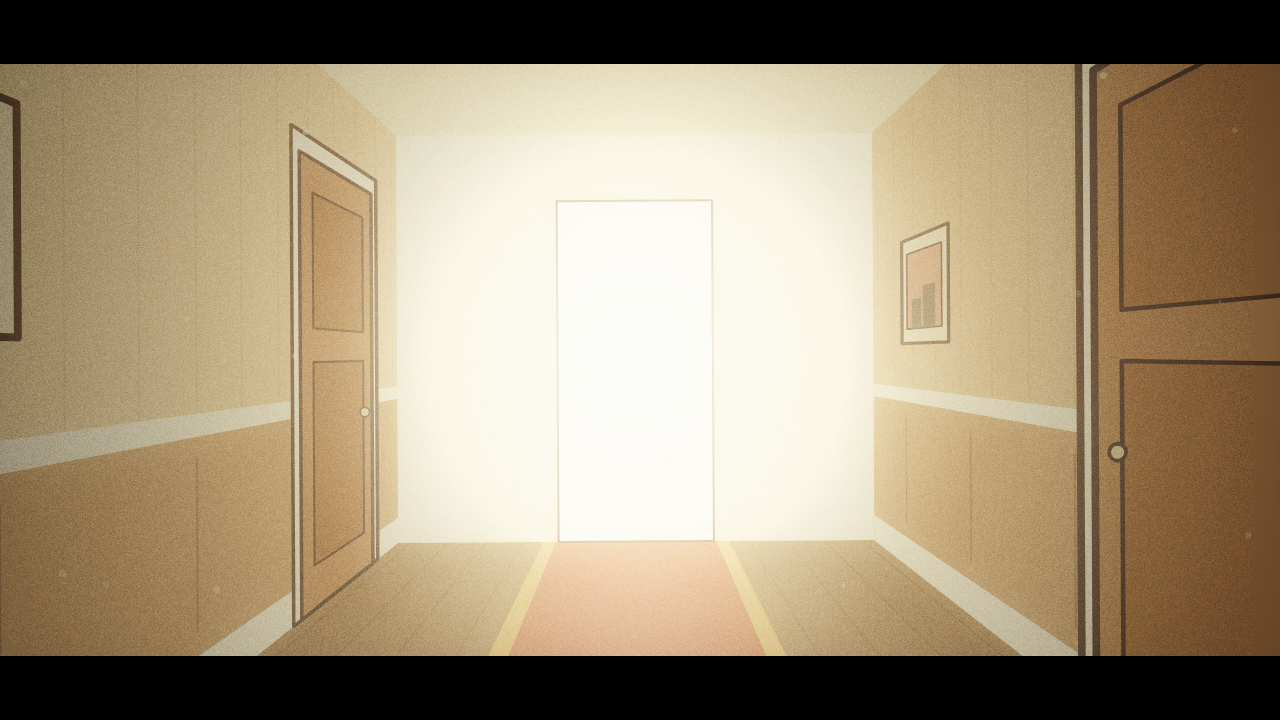
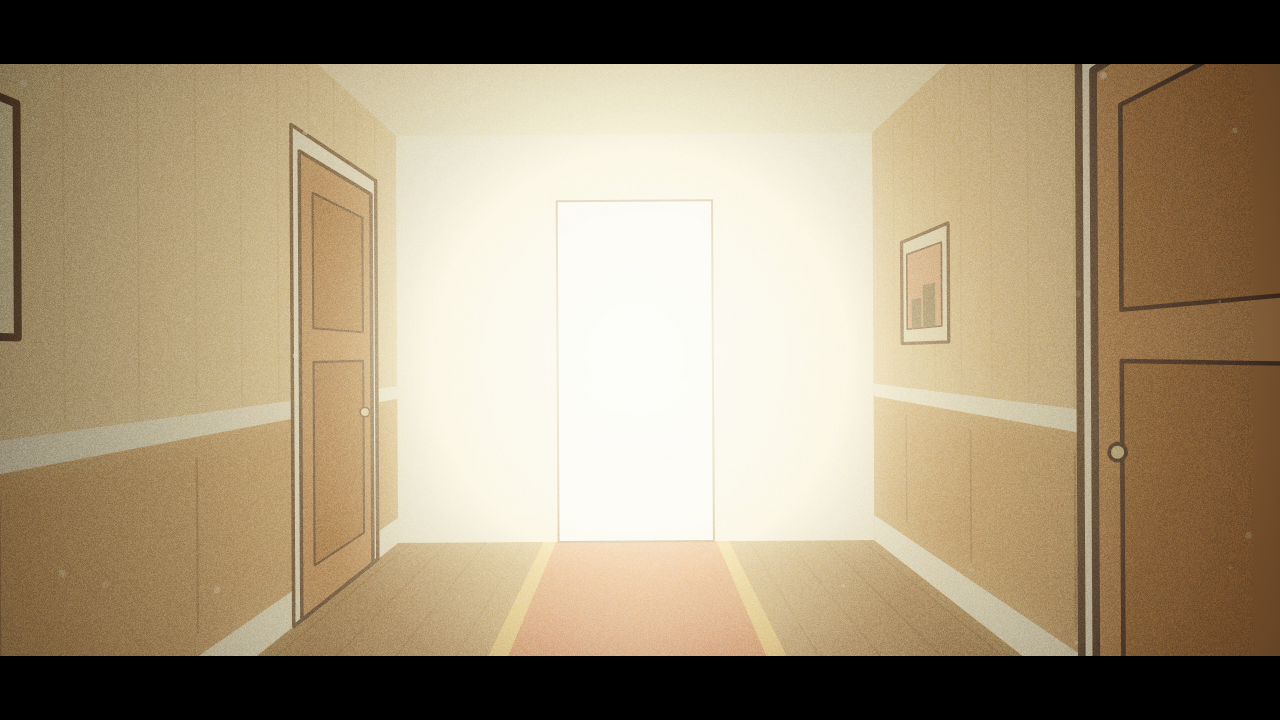
Scene 1 v2: add the porch dialogue with Dad
Camera now pans across the porch to Dad. New lines: Dad "Ethan, you're
late.", Ethan "Dad?", Dad "Don't stay too long, buddy." Dad's head
moves slightly while he talks. The porch and Dad close-up are longer to
fit the lines, so the scene is now about 49.5s.

Claude-Session: https://claude.ai/code/session_01TKrh3DwfzpJfkwHqgcgBCE

diff --git a/scene1-v2-short.html b/scene1-v2-short.html
@@ -14,12 +14,12 @@ canvas{width:min(100vw,177.78vh);height:min(56.25vw,100vh);background:#000;displ
 </head>
 <body>
 <canvas id="cv"></canvas>
-<div id="ov"><div id="ovt">CLICK TO PLAY WITH SOUND</div><small>False Awakening, Scene 1 &middot; about 46 seconds &middot; Space pauses &middot; R restarts</small></div>
+<div id="ov"><div id="ovt">CLICK TO PLAY WITH SOUND</div><small>False Awakening, Scene 1 &middot; about 50 seconds &middot; Space pauses &middot; R restarts</small></div>
 <script>
 (()=>{
 const SHORT=(new URLSearchParams(location.search).get('format')||document.documentElement.dataset.format)==='short';
 // W x SH is the world every shot is drawn in; CW x CH is the output frame, PW x PH the picture between the bars
-const W=1280,SH=592,CX=W/2,CY=SH/2,DUR=46,TAU=Math.PI*2,OL='#1c1e26';
+const W=1280,SH=592,CX=W/2,CY=SH/2,DUR=49.5,TAU=Math.PI*2,OL='#1c1e26';
 const CW=SHORT?720:1280,CH=SHORT?1280:720,BAR=SHORT?110:64,PW=CW,PH=CH-2*BAR;
 const cv=document.getElementById('cv');cv.width=CW;cv.height=CH;
 if(SHORT){cv.style.width='min(100vw,56.25vh)';cv.style.height='min(177.78vw,100vh)'}
@@ -196,7 +196,9 @@ function person(o){
     c.beginPath();c.arc(m.hx+18,m.hy-17,9,-1.2,1.2);c.lineWidth=5;c.strokeStyle=OL;c.stroke();c.fillStyle='#4a2f1e';c.fillRect(m.hx-11,m.hy-33,24,6);
     c.beginPath();c.arc(m.hx,m.hy,15,Math.PI*0.9,Math.PI*2.1);fillOL(skin,4.5)}
   }
+  c.save();c.translate(0,-226);c.rotate(o.headTilt||0);c.translate(0,226);
   if(back)headBack(o);else headFront(o);
+  c.restore();
   c.restore();
   c.restore();
 }
@@ -326,13 +328,20 @@ function cam(u,d,o){
 const blinkAt=t=>{const f=(t%3.3)/3.3;return f>0.95?Math.sin((f-0.95)/0.05*Math.PI):0};
 
 /* ================= shots ================= */
-// Authored times are mapped onto the cut: dream hallway 7.5s -> 4s, run 3.3s -> 1.8s.
-const M=x=>x<7.5?x*4/7.5:x<26.3?x-3.5:x<29.6?22.8+(x-26.3)*1.8/3.3:x-5;
+// Authored times are mapped onto the cut: dream hallway 7.5s -> 4s, porch 5s -> 6.5s,
+// Dad close up (before the whiteout) 4.1s -> 6.1s, run 3.3s -> 1.8s.
+const M=x=>x<7.5?x*4/7.5:x<12.5?4+(x-7.5)*1.3:x<16.6?10.5+(x-12.5)*6.1/4.1:x<26.3?x:x<29.6?26.3+(x-26.3)*1.8/3.3:x-1.5;
 const T={};Object.entries({A:[0,7.5],B:[7.5,12.5],C:[12.5,18.1],E:[18.1,22],F:[22,24.8],G:[24.8,26.3],R:[26.3,29.6],H:[29.6,33.4],K:[33.4,35.6],I:[35.6,43],J:[43,49]}).forEach(([k,v])=>T[k]=v.map(M));
+const DAD_COL='#f0c987',ETHAN_COL='#ffb05a',MOM_COL='#bcd3a8';
 const LINES=[
-  {who:'ETHAN',text:'This is a dream.',t0:32.0,t1:35.4,syl:[[0,.22],[.28,.16],[.48,.16],[.72,.5]],col:'#ffb05a'},
-  {who:'MOM',text:'Then wake up, Ethan.',t0:39.3,t1:42.8,syl:[[0,.22],[.28,.2],[.5,.2],[.78,.22],[1.04,.4]],col:'#bcd3a8'}
+  {who:'DAD',text:"Ethan, you're late.",t0:6.8,t1:9.4,syl:[[0,.2],[.24,.2],[.5,.2],[.74,.45]],col:DAD_COL},
+  {who:'ETHAN',text:'Dad?',t0:11.0,t1:12.6,syl:[[0,.5]],col:ETHAN_COL},
+  {who:'DAD',text:"Don't stay too long, buddy.",t0:13.2,t1:16.3,syl:[[0,.2],[.24,.2],[.48,.2],[.72,.35],[1.15,.2],[1.38,.4]],col:DAD_COL},
+  {who:'ETHAN',id:'dream',text:'This is a dream.',t0:35.5,t1:38.9,syl:[[0,.22],[.28,.16],[.48,.16],[.72,.5]],col:ETHAN_COL},
+  {who:'MOM',text:'Then wake up, Ethan.',t0:42.8,t1:46.3,syl:[[0,.22],[.28,.2],[.5,.2],[.78,.22],[1.04,.4]],col:MOM_COL}
 ];
+// how much a speaker is talking right now (0..1), used for small head moves on characters seen from behind
+const talking=(t,who)=>LINES.filter(L=>L.who===who).reduce((m,L)=>Math.max(m,mouthAt(t,L)),0);
 const mouthAt=(t,L)=>{let m=0;L.syl.forEach(s=>{const p=(t-L.t0-s[0])/s[1];if(p>0&&p<1)m=Math.max(m,Math.sin(p*Math.PI))});return m};
 
 // A: dream hallway, first person walk toward the bright porch door
@@ -386,10 +395,10 @@ function porchBG(u){
 // B: porch, Dad stands with his back to the camera
 function shotB(t){
   const u=t-T.B[0],d=T.B[1]-T.B[0];
-  c.save();cam(u,d,{z0:1,z1:1.22,fy:300,drift:5,y1:-6});
+  c.save();c.translate(lerp(SHORT?300:380,0,ease(seg(u,0.3,2.5))),0);cam(u,d,{z0:1,z1:1.22,fy:300,drift:5,y1:-6});
   porchBG(u);
   c.fillStyle=lin(0,290,0,430,[[0,'rgba(255,242,218,0)'],[0.5,'rgba(255,242,218,0.5)'],[1,'rgba(255,242,218,0)']]);c.fillRect(-400,290,W+800,140);
-  person(Object.assign({},DAD,{x:CX,y:520,s:0.95,back:true,shadow:true,fold:true,rot:Math.sin(u*0.7)*0.004,breath:Math.sin(u*1.2)*1.2}));
+  person(Object.assign({},DAD,{x:CX,y:520,s:0.95,back:true,shadow:true,fold:true,headTilt:Math.sin(t*9)*0.035*talking(t,'DAD')+0.02*talking(t,'DAD'),rot:Math.sin(u*0.7)*0.004,breath:Math.sin(u*1.2)*1.2}));
   dust(u,40);
   c.restore();
   if(u<0.7){c.fillStyle='rgba(255,248,228,'+(1-ease(u/0.7))*0.9+')';c.fillRect(-W,-SH,W*3,SH*3)}
@@ -400,7 +409,7 @@ function shotC(t){
   c.save();cam(u,d,{z0:1,z1:1.2,fy:200,drift:4,x1:-10});
   blurred(()=>{c.translate(CX,CY);c.scale(1.7,1.7);c.translate(-CX-80,-CY+70);porchBG(u)},9,'#e8cc9f');
   glow(CX,CY,700,'255,236,200',0.25);
-  person(Object.assign({},DAD,{x:CX,y:905,s:2.6,back:true,fold:true,rot:Math.sin(u*0.6)*0.006,breath:Math.sin(u*1.2)*1.4}));
+  person(Object.assign({},DAD,{x:CX,y:905,s:2.6,back:true,fold:true,headTilt:Math.sin(t*9)*0.03*talking(t,'DAD')+0.02*talking(t,'DAD'),rot:Math.sin(u*0.6)*0.006,breath:Math.sin(u*1.2)*1.4}));
   dust(u,30);
   c.restore();
 }
@@ -556,7 +565,7 @@ function shotI(t){
   c.save();cam(u,d,{z0:1,z1:1.16,fy:240,drift:3});
   blurred(()=>{c.translate(CX,CY);c.scale(1.7,1.7);c.translate(-653,-212);kitchenBG(t)},11,'#7a869c');
   c.fillStyle='rgba(30,36,52,.2)';c.fillRect(-300,-300,W+600,SH+600);
-  const spk=mouthAt(t,LINES[0]),post=seg(t,M(40.4),M(43)),tremble=post*2.2,look=t>M(41.6)?-0.9*ease(seg(t,M(41.6),M(42.2))):0;
+  const spk=mouthAt(t,LINES.find(L=>L.id==='dream')),post=seg(t,M(40.4),M(43)),tremble=post*2.2,look=t>M(41.6)?-0.9*ease(seg(t,M(41.6),M(42.2))):0;
   const ex={brow:0.7+0.5*seg(t,M(35.6),M(37)),eye:1.25+0.15*post,pup:0.65,open:spk*0.9+(spk<0.05&&t>M(40.4)?0.12:0),smile:-0.5,stress:1,sweat:t>M(38),look,blink:(t>M(36.6)&&t<M(40.8))?0:blinkAt(t+1)};
   person(Object.assign({},ETHAN,{x:CX+Math.sin(t*38)*tremble,y:1150,s:3.4,expr:ex,arms:[0.1,0.1],breath:Math.abs(Math.sin(u*2.6))*2}));
   c.restore();

diff --git a/scene1-v2.html b/scene1-v2.html
@@ -14,12 +14,12 @@ canvas{width:min(100vw,177.78vh);height:min(56.25vw,100vh);background:#000;displ
 </head>
 <body>
 <canvas id="cv"></canvas>
-<div id="ov"><div id="ovt">CLICK TO PLAY WITH SOUND</div><small>False Awakening, Scene 1 &middot; about 46 seconds &middot; Space pauses &middot; R restarts</small></div>
+<div id="ov"><div id="ovt">CLICK TO PLAY WITH SOUND</div><small>False Awakening, Scene 1 &middot; about 50 seconds &middot; Space pauses &middot; R restarts</small></div>
 <script>
 (()=>{
 const SHORT=(new URLSearchParams(location.search).get('format')||document.documentElement.dataset.format)==='short';
 // W x SH is the world every shot is drawn in; CW x CH is the output frame, PW x PH the picture between the bars
-const W=1280,SH=592,CX=W/2,CY=SH/2,DUR=46,TAU=Math.PI*2,OL='#1c1e26';
+const W=1280,SH=592,CX=W/2,CY=SH/2,DUR=49.5,TAU=Math.PI*2,OL='#1c1e26';
 const CW=SHORT?720:1280,CH=SHORT?1280:720,BAR=SHORT?110:64,PW=CW,PH=CH-2*BAR;
 const cv=document.getElementById('cv');cv.width=CW;cv.height=CH;
 if(SHORT){cv.style.width='min(100vw,56.25vh)';cv.style.height='min(177.78vw,100vh)'}
@@ -196,7 +196,9 @@ function person(o){
     c.beginPath();c.arc(m.hx+18,m.hy-17,9,-1.2,1.2);c.lineWidth=5;c.strokeStyle=OL;c.stroke();c.fillStyle='#4a2f1e';c.fillRect(m.hx-11,m.hy-33,24,6);
     c.beginPath();c.arc(m.hx,m.hy,15,Math.PI*0.9,Math.PI*2.1);fillOL(skin,4.5)}
   }
+  c.save();c.translate(0,-226);c.rotate(o.headTilt||0);c.translate(0,226);
   if(back)headBack(o);else headFront(o);
+  c.restore();
   c.restore();
   c.restore();
 }
@@ -326,13 +328,20 @@ function cam(u,d,o){
 const blinkAt=t=>{const f=(t%3.3)/3.3;return f>0.95?Math.sin((f-0.95)/0.05*Math.PI):0};
 
 /* ================= shots ================= */
-// Authored times are mapped onto the cut: dream hallway 7.5s -> 4s, run 3.3s -> 1.8s.
-const M=x=>x<7.5?x*4/7.5:x<26.3?x-3.5:x<29.6?22.8+(x-26.3)*1.8/3.3:x-5;
+// Authored times are mapped onto the cut: dream hallway 7.5s -> 4s, porch 5s -> 6.5s,
+// Dad close up (before the whiteout) 4.1s -> 6.1s, run 3.3s -> 1.8s.
+const M=x=>x<7.5?x*4/7.5:x<12.5?4+(x-7.5)*1.3:x<16.6?10.5+(x-12.5)*6.1/4.1:x<26.3?x:x<29.6?26.3+(x-26.3)*1.8/3.3:x-1.5;
 const T={};Object.entries({A:[0,7.5],B:[7.5,12.5],C:[12.5,18.1],E:[18.1,22],F:[22,24.8],G:[24.8,26.3],R:[26.3,29.6],H:[29.6,33.4],K:[33.4,35.6],I:[35.6,43],J:[43,49]}).forEach(([k,v])=>T[k]=v.map(M));
+const DAD_COL='#f0c987',ETHAN_COL='#ffb05a',MOM_COL='#bcd3a8';
 const LINES=[
-  {who:'ETHAN',text:'This is a dream.',t0:32.0,t1:35.4,syl:[[0,.22],[.28,.16],[.48,.16],[.72,.5]],col:'#ffb05a'},
-  {who:'MOM',text:'Then wake up, Ethan.',t0:39.3,t1:42.8,syl:[[0,.22],[.28,.2],[.5,.2],[.78,.22],[1.04,.4]],col:'#bcd3a8'}
+  {who:'DAD',text:"Ethan, you're late.",t0:6.8,t1:9.4,syl:[[0,.2],[.24,.2],[.5,.2],[.74,.45]],col:DAD_COL},
+  {who:'ETHAN',text:'Dad?',t0:11.0,t1:12.6,syl:[[0,.5]],col:ETHAN_COL},
+  {who:'DAD',text:"Don't stay too long, buddy.",t0:13.2,t1:16.3,syl:[[0,.2],[.24,.2],[.48,.2],[.72,.35],[1.15,.2],[1.38,.4]],col:DAD_COL},
+  {who:'ETHAN',id:'dream',text:'This is a dream.',t0:35.5,t1:38.9,syl:[[0,.22],[.28,.16],[.48,.16],[.72,.5]],col:ETHAN_COL},
+  {who:'MOM',text:'Then wake up, Ethan.',t0:42.8,t1:46.3,syl:[[0,.22],[.28,.2],[.5,.2],[.78,.22],[1.04,.4]],col:MOM_COL}
 ];
+// how much a speaker is talking right now (0..1), used for small head moves on characters seen from behind
+const talking=(t,who)=>LINES.filter(L=>L.who===who).reduce((m,L)=>Math.max(m,mouthAt(t,L)),0);
 const mouthAt=(t,L)=>{let m=0;L.syl.forEach(s=>{const p=(t-L.t0-s[0])/s[1];if(p>0&&p<1)m=Math.max(m,Math.sin(p*Math.PI))});return m};
 
 // A: dream hallway, first person walk toward the bright porch door
@@ -386,10 +395,10 @@ function porchBG(u){
 // B: porch, Dad stands with his back to the camera
 function shotB(t){
   const u=t-T.B[0],d=T.B[1]-T.B[0];
-  c.save();cam(u,d,{z0:1,z1:1.22,fy:300,drift:5,y1:-6});
+  c.save();c.translate(lerp(SHORT?300:380,0,ease(seg(u,0.3,2.5))),0);cam(u,d,{z0:1,z1:1.22,fy:300,drift:5,y1:-6});
   porchBG(u);
   c.fillStyle=lin(0,290,0,430,[[0,'rgba(255,242,218,0)'],[0.5,'rgba(255,242,218,0.5)'],[1,'rgba(255,242,218,0)']]);c.fillRect(-400,290,W+800,140);
-  person(Object.assign({},DAD,{x:CX,y:520,s:0.95,back:true,shadow:true,fold:true,rot:Math.sin(u*0.7)*0.004,breath:Math.sin(u*1.2)*1.2}));
+  person(Object.assign({},DAD,{x:CX,y:520,s:0.95,back:true,shadow:true,fold:true,headTilt:Math.sin(t*9)*0.035*talking(t,'DAD')+0.02*talking(t,'DAD'),rot:Math.sin(u*0.7)*0.004,breath:Math.sin(u*1.2)*1.2}));
   dust(u,40);
   c.restore();
   if(u<0.7){c.fillStyle='rgba(255,248,228,'+(1-ease(u/0.7))*0.9+')';c.fillRect(-W,-SH,W*3,SH*3)}
@@ -400,7 +409,7 @@ function shotC(t){
   c.save();cam(u,d,{z0:1,z1:1.2,fy:200,drift:4,x1:-10});
   blurred(()=>{c.translate(CX,CY);c.scale(1.7,1.7);c.translate(-CX-80,-CY+70);porchBG(u)},9,'#e8cc9f');
   glow(CX,CY,700,'255,236,200',0.25);
-  person(Object.assign({},DAD,{x:CX,y:905,s:2.6,back:true,fold:true,rot:Math.sin(u*0.6)*0.006,breath:Math.sin(u*1.2)*1.4}));
+  person(Object.assign({},DAD,{x:CX,y:905,s:2.6,back:true,fold:true,headTilt:Math.sin(t*9)*0.03*talking(t,'DAD')+0.02*talking(t,'DAD'),rot:Math.sin(u*0.6)*0.006,breath:Math.sin(u*1.2)*1.4}));
   dust(u,30);
   c.restore();
 }
@@ -556,7 +565,7 @@ function shotI(t){
   c.save();cam(u,d,{z0:1,z1:1.16,fy:240,drift:3});
   blurred(()=>{c.translate(CX,CY);c.scale(1.7,1.7);c.translate(-653,-212);kitchenBG(t)},11,'#7a869c');
   c.fillStyle='rgba(30,36,52,.2)';c.fillRect(-300,-300,W+600,SH+600);
-  const spk=mouthAt(t,LINES[0]),post=seg(t,M(40.4),M(43)),tremble=post*2.2,look=t>M(41.6)?-0.9*ease(seg(t,M(41.6),M(42.2))):0;
+  const spk=mouthAt(t,LINES.find(L=>L.id==='dream')),post=seg(t,M(40.4),M(43)),tremble=post*2.2,look=t>M(41.6)?-0.9*ease(seg(t,M(41.6),M(42.2))):0;
   const ex={brow:0.7+0.5*seg(t,M(35.6),M(37)),eye:1.25+0.15*post,pup:0.65,open:spk*0.9+(spk<0.05&&t>M(40.4)?0.12:0),smile:-0.5,stress:1,sweat:t>M(38),look,blink:(t>M(36.6)&&t<M(40.8))?0:blinkAt(t+1)};
   person(Object.assign({},ETHAN,{x:CX+Math.sin(t*38)*tremble,y:1150,s:3.4,expr:ex,arms:[0.1,0.1],breath:Math.abs(Math.sin(u*2.6))*2}));
   c.restore();
